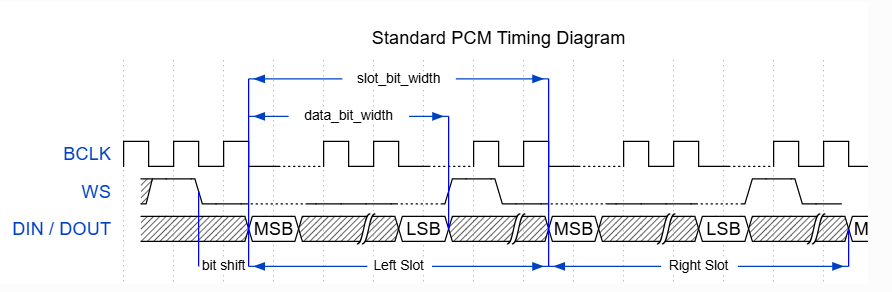
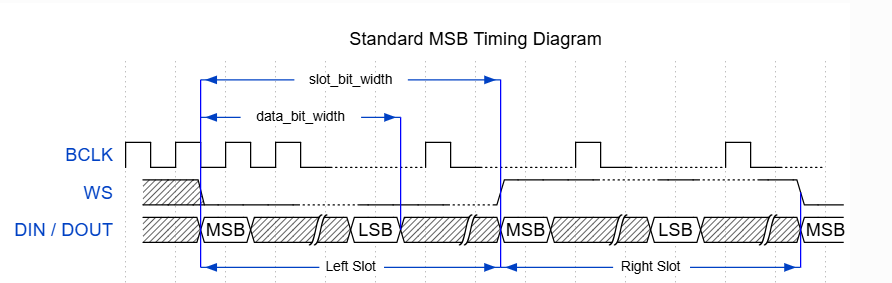
Update README.md

diff --git a/Signal Sampler/src/FFTSampler.cpp b/Signal Sampler/src/FFTSampler.cpp
@@ -18,9 +18,9 @@
 #define SAMPLES 4096
 #define BUFFER_LEN 64
 #define MAX_FFT_RUNS 15 
-#define AGGREGATE_WINDOW_SECONDS 5 
+#define AGGREGATE_WINDOW_SECONDS 10 
 
-uint32_t current_sample_rate = 100000; 
+uint32_t current_sample_rate = 100000U; 
 float current_fft_rate = (float)current_sample_rate / DECIMATION_FACTOR;
 uint32_t aggregate_samples_needed;
 
@@ -434,12 +434,12 @@ void setup() {
     .mode = (i2s_mode_t)(I2S_MODE_MASTER | I2S_MODE_RX | I2S_MODE_ADC_BUILT_IN),
     .sample_rate = current_sample_rate, 
     .bits_per_sample = I2S_BITS_PER_SAMPLE_16BIT,
-    .channel_format = I2S_CHANNEL_FMT_ONLY_LEFT,       
+    .channel_format = I2S_CHANNEL_FMT_ONLY_RIGHT,       
     .communication_format = I2S_COMM_FORMAT_I2S_MSB, 
     .intr_alloc_flags = 0,
     .dma_buf_count = 8,
     .dma_buf_len = BUFFER_LEN,
-    .use_apll = true 
+    .use_apll = false 
   };
 
   i2s_driver_install(I2S_NUM_0, &i2s_config, 0, NULL);
@@ -454,7 +454,7 @@ void setup() {
   xTaskCreatePinnedToCore(i2sReadTask, "I2S_Read", 4096, NULL, 2, &Task1Handle, 0);
   xTaskCreatePinnedToCore(fftTask, "FFT_Process", 8192, NULL, 3, &FFTTaskHandle, 1);
   xTaskCreatePinnedToCore(processingTask, "Data_Processing", 4096, NULL, 3, &ProcessingTaskHandle, 1);
-  xTaskCreatePinnedToCore(aggregateConsumerTask, "TB_Consumer", 4096, NULL, 2, &ConsumerTaskHandle, 1);
+  xTaskCreatePinnedToCore(aggregateConsumerTask, "TB_Consumer", 8192, NULL, 2, &ConsumerTaskHandle, 1);
 }
 
 void loop() {

diff --git a/Signal Sampler/src/basicSampler_FreeRTOS.cpp b/Signal Sampler/src/basicSampler_FreeRTOS.cpp
@@ -79,21 +79,21 @@ void setup() {
     "I2S_Read_Task",  // Task name (for debugging)
     4096*4,             // Stack size (bytes)
     NULL,             // Parameters passed to task
-    2,                // Priority (higher number = higher priority)
+    2,                // Priority (higher number = Lower priority)
     &Task1Handle,     // Task handle
     0                 // Core ID (Core 0)
   );
 
-  // 3. Create Task 2 (Printing) on Core 1
-  xTaskCreatePinnedToCore(
-    serialPrintTask,    // Task function
-    "Serial_Print_Task",// Task name 
-    4096*4,               // Stack size
-    NULL,               // Parameters
-    1,                  // Priority (slightly lower than reading)
-    &Task2Handle,       // Task handle
-    1                   // Core ID (Core 1)
-  );
+  // // 3. Create Task 2 (Printing) on Core 1
+  // xTaskCreatePinnedToCore(
+  //   serialPrintTask,    // Task function
+  //   "Serial_Print_Task",// Task name 
+  //   4096*4,               // Stack size
+  //   NULL,               // Parameters
+  //   1,                  // Priority (slightly lower than reading)
+  //   &Task2Handle,       // Task handle
+  //   1                   // Core ID (Core 1)
+  // );
 }
 
 // ---------------------------------------------------------

diff --git a/Signal Generator/src/SignalGenerator.cpp b/Signal Generator/src/SignalGenerator.cpp
@@ -65,7 +65,7 @@ void setup() {
     .mode = (i2s_mode_t)(I2S_MODE_MASTER | I2S_MODE_TX | I2S_MODE_DAC_BUILT_IN),
     .sample_rate = SAMPLE_RATE,
     .bits_per_sample = I2S_BITS_PER_SAMPLE_16BIT,
-    .channel_format = I2S_CHANNEL_FMT_RIGHT_LEFT, // FIX: Output to both channels
+    .channel_format = I2S_CHANNEL_FMT_RIGHT_LEFT,
     .communication_format = I2S_COMM_FORMAT_STAND_MSB,
     .intr_alloc_flags = 0,
     .dma_buf_count = 8,

diff --git a/README.md b/README.md
@@ -10,20 +10,20 @@ Individual Assignment for "INTERNET-OF-THINGS ALGORITHMS AND SERVICES" by prof. 
 
 # Requirements
 
-- Find out the maximum sampling rate of the system.
-- Generator must produce an output signal in the form of SUM(a_k*sin(f_k)).
-- Generator must be able to produce an output signal containing frequencies greater or equal than half the maximum sampling rate of the system.
-- Sampler must identify correctly the max frequency of the input signal.
-- Sampler must adapt its sample rate according to the Nyquist-Shannon Theorem.
-- Sampler must compute the average value of the signal over a time window.
-- Sampler must communicate the average value of the signal using MQTT.
-- Evaluate the savings in energy of the new/adaptive sampling frequency against the original over-sampled one.
-- Measure per-window execution time.
-- Measure the volume of data transmitted over the network when the new/adaptive sampling frequency is used against the original over sampled one.
-- Measure the end-to-end latency of the system. From the point the data are generated up to the point they are received from the edge server.
+1. Find out the maximum sampling rate of the system.
+2. Generator must be able to produce an output signal containing frequencies greater or equal than half the maximum sampling rate of the system.
+3. Generator must produce an output signal in the form of SUM(a_k*sin(f_k)).
+4. Sampler must identify correctly the max frequency of the input signal.
+5. Sampler must adapt its sample rate according to the Nyquist-Shannon Theorem.
+6. Sampler must compute the average value of the signal over a time window
+7. Sampler must communicate the average value of the signal using MQTT.
+8. Evaluate the savings in energy of the new/adaptive sampling frequency against the original over-sampled one.
+9. Measure per-window execution time.
+10. Measure the volume of data transmitted over the network when the new/adaptive sampling frequency is used against the original over sampled one.
+11. Measure the end-to-end latency of the system. From the point the data are generated up to the point they are received from the edge server.
 
 ## Personal goal
-- Learn to use I2S and push it to its limits.
+- Learn how to use I2S and push it to its limits.
 
 # Architecture Overview
 ## Hardware
@@ -50,8 +50,108 @@ As for the sampler, we use the ADC provided in the MCU. In the case of the code 
 
 # The I2S Journey
 ## What is I2S?
+**Inter-IC Sound (I2S)** is a synchronous serial communication protocol traditionally used for connecting digital audio devices. In this project, it serves as the "high-speed highway" that bypasses standard CPU-bound sampling to interface directly with the ESP32's internal **ADC** and **DAC**. 
+
+<img src="Final%20Figures/standard_msb_diagram.png" alt="I2S Standard MSB Diagram" width="75%">
+
+
+As illustrated in the timing diagrams, the protocol relies on three main signals:
+* **BCLK (Bit Clock):** The timing pulse that dictates when data bits are read. The clock is constructed dividing the MCLK (Master Clock) frequency by an 8-bit unsigned number (_Spoiler_: it will give problems).
+* **WS (Word Select):** Also known as LRCLK, it defines the start of a data frame and identifies the audio channel (Left/Right).
+* **DIN/DOUT:** The actual payload of digital audio samples.
+
+By leveraging **Direct Memory Access (DMA)**, the I2S peripheral can fill large buffers (e.g., `BUFFER_LEN = 64`) in the background. This allows the CPU to perform heavy digital signal processing without missing a single sample, which is critical for maintaining the signal integrity required for accurate frequency analysis.
+
+---
+
 ## Configuration
+### Generator (TX) Setup
+```c++
+   i2s_config_t i2s_config = {
+    .mode = (i2s_mode_t)(I2S_MODE_MASTER | I2S_MODE_TX | I2S_MODE_DAC_BUILT_IN),
+    .sample_rate = SAMPLE_RATE,
+    .bits_per_sample = I2S_BITS_PER_SAMPLE_16BIT,
+    .channel_format = I2S_CHANNEL_FMT_RIGHT_LEFT,
+    .communication_format = I2S_COMM_FORMAT_STAND_MSB,
+    .intr_alloc_flags = 0,
+    .dma_buf_count = 8,
+    .dma_buf_len = BUFFER_SIZE,
+    .use_apll = false
+  };
+```
+
+The generator uses `I2S_MODE_DAC_BUILT_IN` to drive the internal DACs on pins 25 and 26.
+
+`.channel_format` tells the generator to post on both channels.
+> **N.B:** As specified on the Pinout, we only read values written to the _Right Channel (Channel 1, PIN 25)_ 
+>
+> Then __why write on both DAC channels?__ The answer lies in a roadblock I stumbled upon: at first I tried setting _.channel_format_ to the standard `I2S_CHANNEL_FMT_ONLY_RIGHT`, and it led to the generator posting on the DMA twice as fast on the right channel.
+>
+> Indeed it worked as expected, ignoring the WS signal and just posting on the right channel, but the sample rate was being doubled aswell.
+>
+>The only fix I found was changing the flag to `I2S_CHANNEL_FMT_RIGHT_LEFT` and using some clever bit-shift tricks to effectively post 32-bit values on the DMA (16 bit for right channel and 16 bit for the left channel both containing the 16 bit sample).
+
+$$\text{out\_buffer}[i] = ((\text{uint32\_t})\text{dac\_ready} \ll 16) \mid \text{dac\_ready}$$
+
+
+### Sampler (RX) Setup
+```c++
+  i2s_config_t i2s_config = {
+    .mode = (i2s_mode_t)(I2S_MODE_MASTER | I2S_MODE_RX | I2S_MODE_ADC_BUILT_IN),
+    .sample_rate = current_sample_rate, 
+    .bits_per_sample = I2S_BITS_PER_SAMPLE_16BIT,
+    .channel_format = I2S_CHANNEL_FMT_ONLY_RIGHT,       
+    .communication_format = I2S_COMM_FORMAT_I2S_MSB, 
+    .intr_alloc_flags = 0,
+    .dma_buf_count = 8,
+    .dma_buf_len = BUFFER_LEN,
+    .use_apll = false 
+  };
+
+  i2s_set_adc_mode(ADC_UNIT_1, ADC1_CHANNEL_6);
+```
+
+The sampler uses `I2S_MODE_ADC_BUILT_IN` to drive the internal ADC on pin 34 (Unit 1, Channel 6).
+<!-- >**Coming up**: _why .use_apll = true_? -->
+
+
+## Max Sample Rate
+What is the __maximum sample rate__ we can achieve using this setup? (Req.1)
+
+Using I2S we hit an API limit (in both DAC and ADC mode): __5MHz__.
+#### Why?
+The BCLK is created from the MCLK (which in the case of ESP32 is 160MHz) via this formula:
+
+
+$\text{SampleRate} \times 16 \text{ bits} \times 2 \text{ channel} = \text{ Hz BCLK}$
+
+So, the absolute limit we can hit is 5MHz:
+
+$5,000,000 \text{ Hz} \times 16 \text{ bits} \times 2 \text{ channel} = 160,000,000 \text{ Hz BCLK (160 MHz)}$
+
+#### Is it useful?
+__Via empirical tests__, at 5MHz sample rate the communication becomes very noisy so, for the rest of this project, __I will consider 100kHz as the reliable sampling rate limit__, and both DAC and ADC will be set to this sample rate.
+
+#### Requirements satisfaction
+(Req.2) can be considered satisfied, since DAC has the same technical limits of the ADC.
+
+As for (Req.3), I noticed that for multiple signals the sin calculations became too slow to keep up with the high sampling rate (using _math.h_ library).
+
+My solution was to implement a precalculation of the signals (using _Wavetables_), which solved the issue but introduced a constraint on the frequencies available (es. 20Hz becomes 25.06Hz because 20Hz doesn't allow for a perfect cycle in the _Wavetable_, so to prevent a "jumping" signal I opted for a smart generator that snaps to the nearest "perfect cycle" frequency).  
+
 ## Performing FFT
+
+
+### The DSP Pipeline
+* **Windowing:** To prevent spectral leakage, a **Hann Window** is pre-calculated and applied to the raw samples using `dsps_wind_hann_f32`.
+* **Transformation:** The system executes a Radix-2 Complex FFT via `dsps_fft2r_fc32` on a buffer of $4096$ samples.
+* **Magnitude and Noise Floor:** After calculating the magnitude of each bin, the system establishes a noise threshold at **5%** of the maximum detected magnitude to ignore background artifacts.
+
+### Frequency Adaptation
+Once the highest frequency component ($f_{max}$) above the threshold is found, the system applies the Nyquist-Shannon Theorem. To ensure a safe margin for reconstruction, the adaptive sampling rate ($f_s$) is set as:
+$$f_s = f_{max} \cdot 2.1$$
+This optimization ensures that the system only captures the necessary amount of data, directly leading to reduced execution time and lower network telemetry volume.
+
 
 # Communication using MQTT
 
@@ -61,4 +161,11 @@ As for the sampler, we use the ADC provided in the MCU. In the case of the code 
 
 # Bonus
 
+# LLM prompts
+For this project I used Gemini 3.1 Pro.
+
+I tried to kept everything in one single chat, prompting the LLM to refresh his memory and attaching the code to modify.
+It didn't always work but I noticed improvements over not prompting to refresh, and when prompted it took in consideration the manual changes in-between prompts.
+
+[Chat](https://gemini.google.com/share/72eb2c112180)
  
